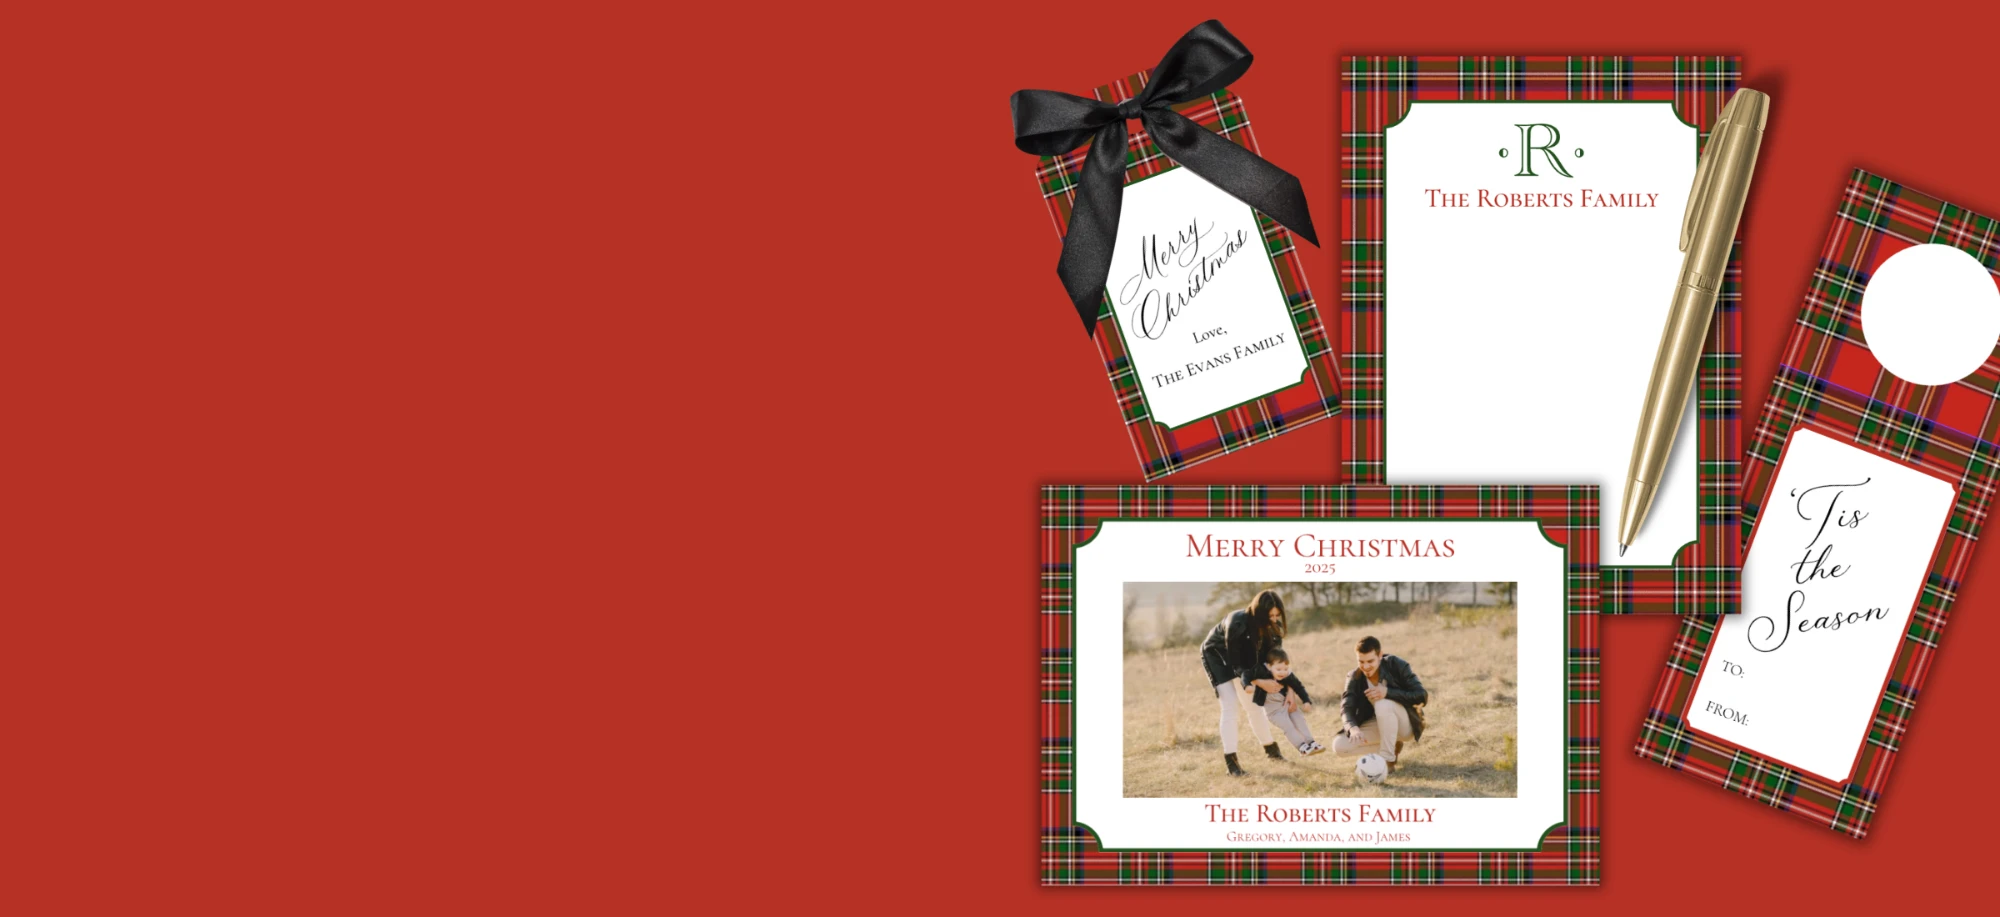
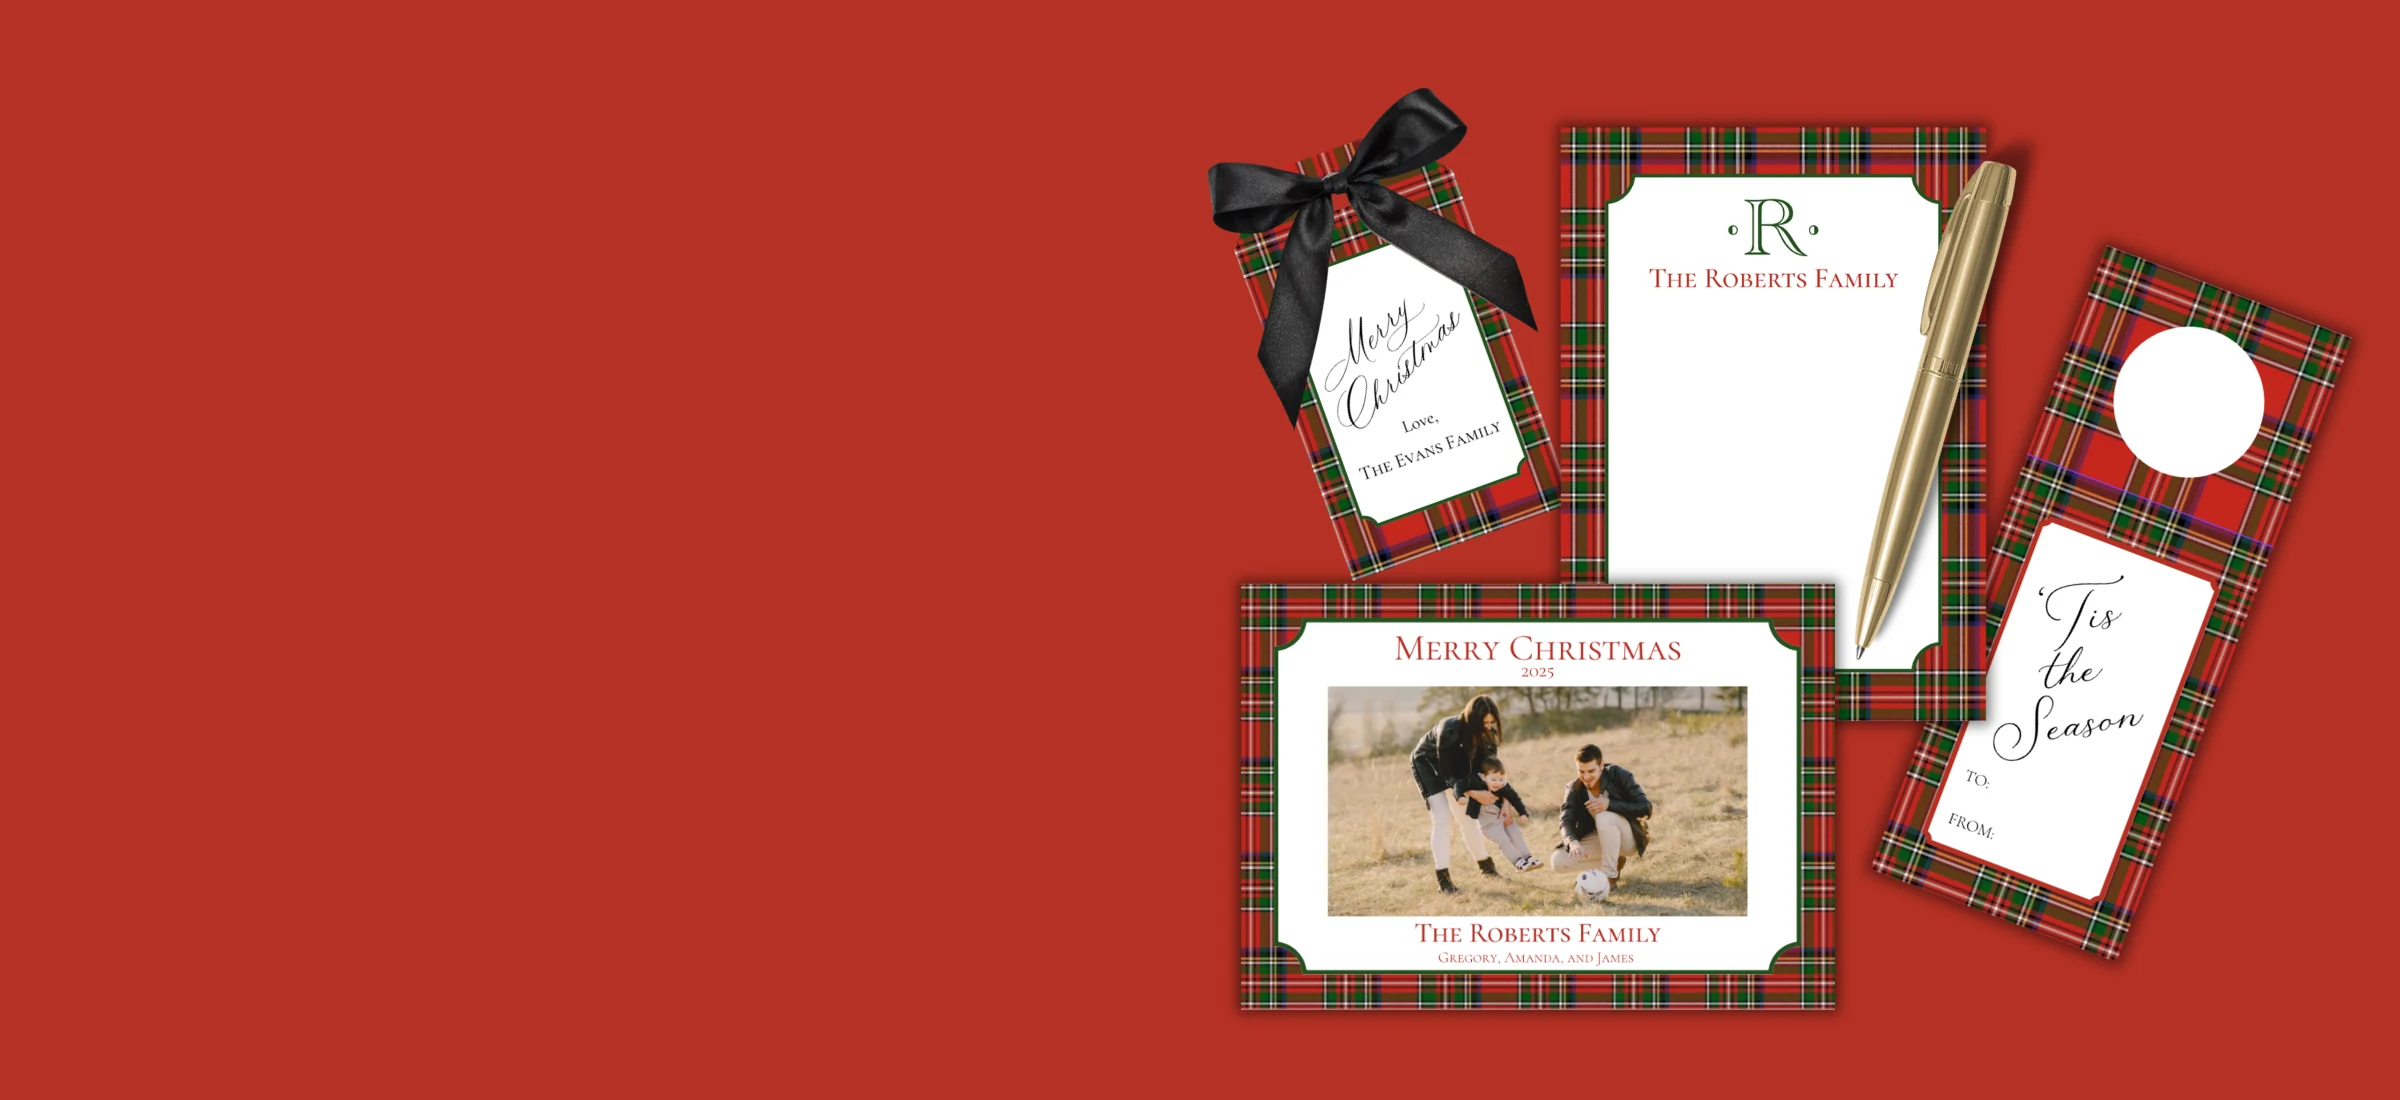
Hero: new Christmas and Fall desktop slides with Shop buttons; fall tagline on the right
Slide 1: Christmas plaid on red (white tagline, Shop Christmas / Holiday).
Slide 2: Fall plaid on tan (tagline on the right, Shop Thanksgiving / Fall).
Desktop images are anchored so the products stay in view on narrower
screens. Phones skip the Christmas slide until a phone version exists.

Claude-Session: https://claude.ai/code/session_01CfVqtoW5zsALxSaAEsBk63

Changed region(s): [[0.496, 0.0, 1.0, 0.9771]]

diff --git a/app/components/HeroSection.tsx b/app/components/HeroSection.tsx
@@ -7,32 +7,65 @@
  * (its flight animation is off for now). All motion respects reduced-motion.
  */
 import { useEffect, useState } from "react";
+import { Link } from "react-router";
 import { HoneyBee } from "./HoneyBee";
 import christmasDesktop from "~/assets/hero/christmas-plaid-desktop.webp";
+import fallDesktop from "~/assets/hero/fall-plaid-desktop.webp";
 
 const CDN = "https://caatee-kr.myshopify.com/cdn/shop/files";
 
 // Slide order + which side the tagline sits on for each.
-// desktopImage: shown on computers (768px+) instead of `image` (phones keep
-// `image` until a phone version exists). desktopLight: white tagline and no
-// light haze on computers — for dark/solid backgrounds like the red plaid.
+// desktopImage: shown on computers (768px+) instead of `image`; phones keep
+//   `image` until a phone version exists (2400x1100 desktop / 1200x1800 phone
+//   templates in design/hero-templates).
+// desktopOnly: skipped on phones (no phone version yet).
+// desktopSide: tagline side on computers, if different from `side`.
+// desktopLight: white tagline and no haze on computers (dark backgrounds).
+// desktopNoHaze: no light haze behind the tagline on computers (the image
+//   already has a plain area for it).
 type Slide = {
   image: string;
   alt: string;
   side: "left" | "right";
   desktopImage?: string;
   desktopAlt?: string;
+  desktopOnly?: boolean;
+  desktopSide?: "left" | "right";
   desktopLight?: boolean;
+  desktopNoHaze?: boolean;
+  /** Which part of the desktop image to keep when the screen trims it. */
+  desktopPosition?: string;
+  /** Button under the tagline, e.g. "Shop Christmas / Holiday". */
+  cta?: {label: string; href: string};
 };
+const AUTUMN = `${CDN}/Winsome_Banner_01_13972622-0426-4773-b922-928098ab2bda.png?width=2400`;
 const SLIDES: Slide[] = [
   {
-    // Christmas plaid (Sydney, Nov 2026): solid red left half for the text.
-    image: `${CDN}/Winsome_Banner_01_13972622-0426-4773-b922-928098ab2bda.png?width=2400`,
-    alt: "Personalized autumn plaid Thanksgiving cards and fall stationery on a writing desk",
+    // Christmas plaid on solid red (Sydney, Nov 2026) — computers only for now.
+    image: AUTUMN,
+    alt: "Personalized red tartan plaid Christmas photo card, notepad, gift tag and wine tag on a red background",
     desktopImage: christmasDesktop,
-    desktopAlt:
-      "Personalized red tartan plaid Christmas photo card, notepad, gift tag and wine tag on a red background",
+    desktopOnly: true,
     desktopLight: true,
+    // Keep the products (right side) when narrower screens trim the image.
+    desktopPosition: "right center",
+    cta: {label: "Shop Christmas / Holiday", href: "/collections/christmas-holiday"},
+    side: "left",
+  },
+  {
+    // Fall plaid on tan (Sydney, Nov 2026); products on the left, so the
+    // tagline sits on the right on computers. Phones show the earlier autumn
+    // photo.
+    image: AUTUMN,
+    alt: "Personalized autumn plaid Thanksgiving cards and fall stationery on a writing desk",
+    desktopImage: fallDesktop,
+    desktopAlt:
+      "Personalized fall plaid Thanksgiving photo card, pumpkin notepad, gift tags and notecards on a tan background",
+    desktopSide: "right",
+    desktopNoHaze: true,
+    // Keep the products (left side) when narrower screens trim the image.
+    desktopPosition: "left center",
+    cta: {label: "Shop Thanksgiving / Fall", href: "/collections/fall-autumn"},
     side: "left",
   },
   {
@@ -50,16 +83,43 @@ const SLIDES: Slide[] = [
 
 export default function HeroSection() {
   const [active, setActive] = useState(0);
+  const [isDesktop, setIsDesktop] = useState(true);
+
+  // Computers vs phones: phones skip desktop-only slides.
+  useEffect(() => {
+    const mq = window.matchMedia?.("(min-width: 768px)");
+    if (!mq) return;
+    const update = () => setIsDesktop(mq.matches);
+    update();
+    mq.addEventListener?.("change", update);
+    return () => mq.removeEventListener?.("change", update);
+  }, []);
+
+  const shows = (i: number) => isDesktop || !SLIDES[i].desktopOnly;
+  const next = (a: number) => {
+    for (let k = 1; k <= SLIDES.length; k++) {
+      const i = (a + k) % SLIDES.length;
+      if (shows(i)) return i;
+    }
+    return a;
+  };
+
+  // On phones, start on the first slide that has a phone photo.
+  useEffect(() => {
+    if (!shows(active)) setActive((a) => next(a));
+  }, [isDesktop]);
 
   useEffect(() => {
     const reduce = window.matchMedia?.("(prefers-reduced-motion: reduce)")?.matches;
     if (reduce) return;
-    const t = setInterval(() => setActive((a) => (a + 1) % SLIDES.length), 6500);
+    const t = setInterval(() => setActive((a) => next(a)), 6500);
     return () => clearInterval(t);
-  }, []);
+  }, [isDesktop]);
 
-  const side = SLIDES[active].side;
-  const light = !!SLIDES[active].desktopLight;
+  const slide = SLIDES[active];
+  const side = isDesktop ? (slide.desktopSide ?? slide.side) : slide.side;
+  const light = !!slide.desktopLight;
+  const noHaze = light || !!slide.desktopNoHaze;
 
   return (
     <section className="relative w-full overflow-hidden">
@@ -68,13 +128,16 @@ export default function HeroSection() {
         {/* Backdrop — cross-fading slides */}
         <div className="absolute inset-0 overflow-hidden bg-[#F3ECDD]">
           {SLIDES.map((s, i) => (
-            <picture key={s.image}>
+            <picture key={i}>
               {s.desktopImage && <source media="(min-width: 768px)" srcSet={s.desktopImage} />}
               <img
                 src={s.image}
                 alt={s.desktopAlt ?? s.alt}
                 className="wl-kenburns absolute inset-0 w-full h-full object-cover transition-opacity duration-[1400ms] ease-in-out"
-                style={{opacity: i === active ? 1 : 0}}
+                style={{
+                  opacity: i === active ? 1 : 0,
+                  objectPosition: isDesktop && s.desktopPosition ? s.desktopPosition : undefined,
+                }}
                 loading={i === 0 ? "eager" : "lazy"}
               />
             </picture>
@@ -84,7 +147,7 @@ export default function HeroSection() {
         {/* Soft light wash behind the tagline — flips to the active side so the
             black type always reads without darkening the product photo. */}
         <div
-          className={`absolute inset-0 transition-[background,opacity] duration-700 ${light ? "md:opacity-0" : ""}`}
+          className={`absolute inset-0 transition-[background,opacity] duration-700 ${noHaze ? "md:opacity-0" : ""}`}
           style={{
             background:
               side === "right"
@@ -131,6 +194,18 @@ export default function HeroSection() {
               <span className="wl-word wl-w3 inline-block">On</span>{" "}
               <span className="wl-word wl-w4 inline-block">Paper.</span>
             </h1>
+            {slide.cta && (
+              <Link
+                key={slide.cta.href}
+                to={slide.cta.href}
+                className={`wl-cta mt-8 md:mt-10 inline-flex items-center gap-2 px-8 py-3.5 font-sans font-medium text-[13px] tracking-[0.15em] uppercase transition-colors duration-300 bg-[#2D2D2D] text-white hover:bg-[#C9A96E] ${
+                  light ? "md:bg-white md:hover:bg-[#FAF8F5]" : ""
+                }`}
+              >
+                {slide.cta.label}
+                <span aria-hidden>&rarr;</span>
+              </Link>
+            )}
           </div>
         </div>
 
@@ -138,7 +213,8 @@ export default function HeroSection() {
         <div className="absolute bottom-5 left-1/2 -translate-x-1/2 z-10 flex gap-2.5">
           {SLIDES.map((s, i) => (
             <button
-              key={s.image}
+              key={i}
+              hidden={!shows(i)}
               type="button"
               onClick={() => setActive(i)}
               aria-label={`Show slide ${i + 1}`}
@@ -160,12 +236,15 @@ export default function HeroSection() {
 const HERO_CSS = `
 /* White tagline on dark slides (computers only; phones show a light photo). */
 @media (min-width: 768px) {
-  .wl-light, .wl-light * { color: #fff !important; transition: color 0.7s; }
+  .wl-light, .wl-light *:not(.wl-cta):not(.wl-cta *) { color: #fff !important; transition: color 0.7s; }
+  .wl-light .wl-cta, .wl-light .wl-cta * { color: #2D2D2D !important; }
 }
 @keyframes wl-kenburns { 0% { transform: scale(1.05); } 100% { transform: scale(1.12); } }
 .wl-kenburns { animation: wl-kenburns 20s ease-in-out infinite alternate; will-change: transform; }
 
 /* Word-by-word entrance — quick sequence, all four words. */
+@keyframes wl-cta-in { from { opacity: 0; transform: translateY(6px); } to { opacity: 1; transform: none; } }
+.wl-cta { animation: wl-cta-in 0.6s ease-out both; }
 @keyframes wl-word-in {
   0%   { opacity: 0; transform: translateY(14px); }
   100% { opacity: 1; transform: translateY(0); }
